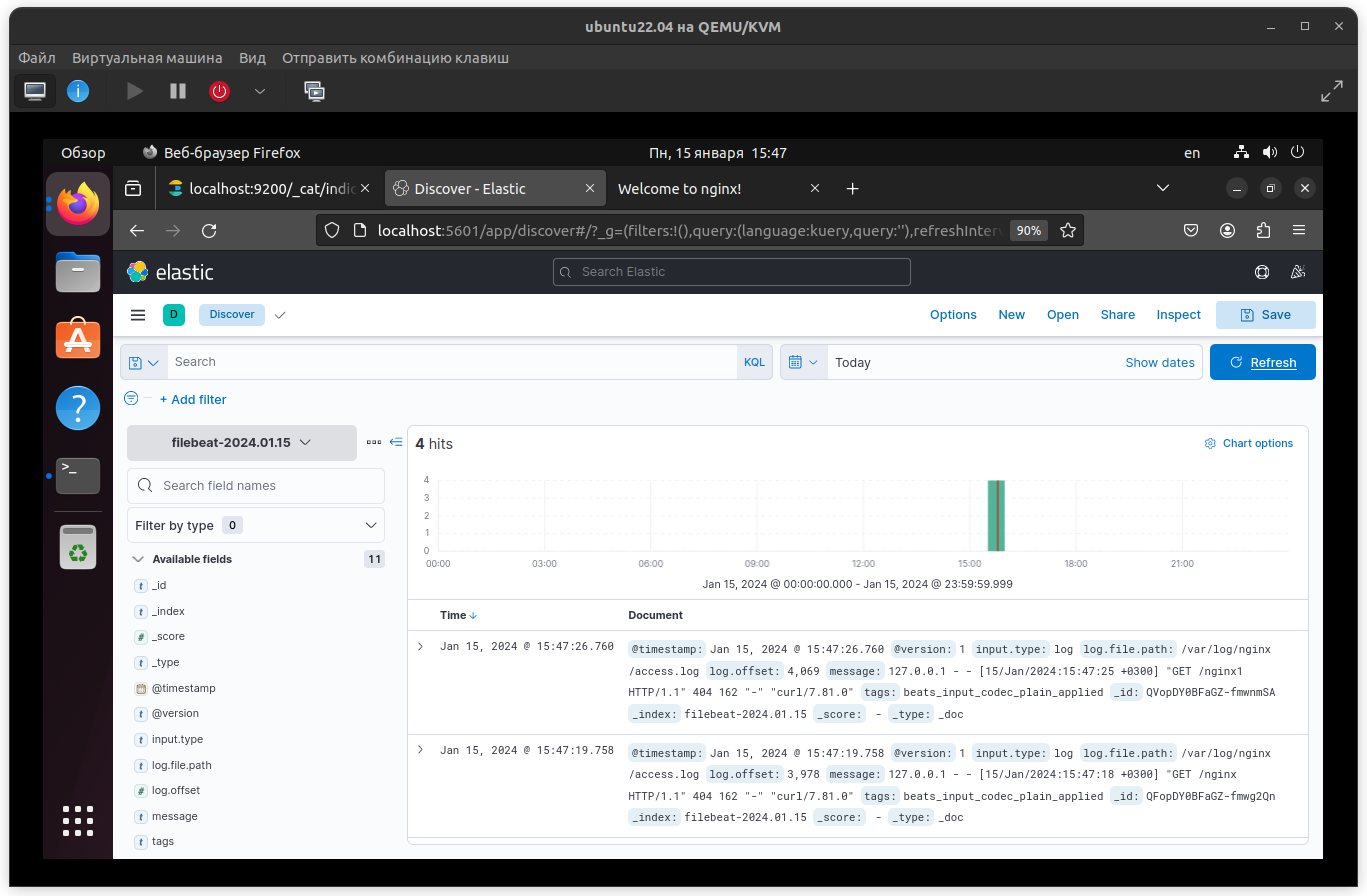
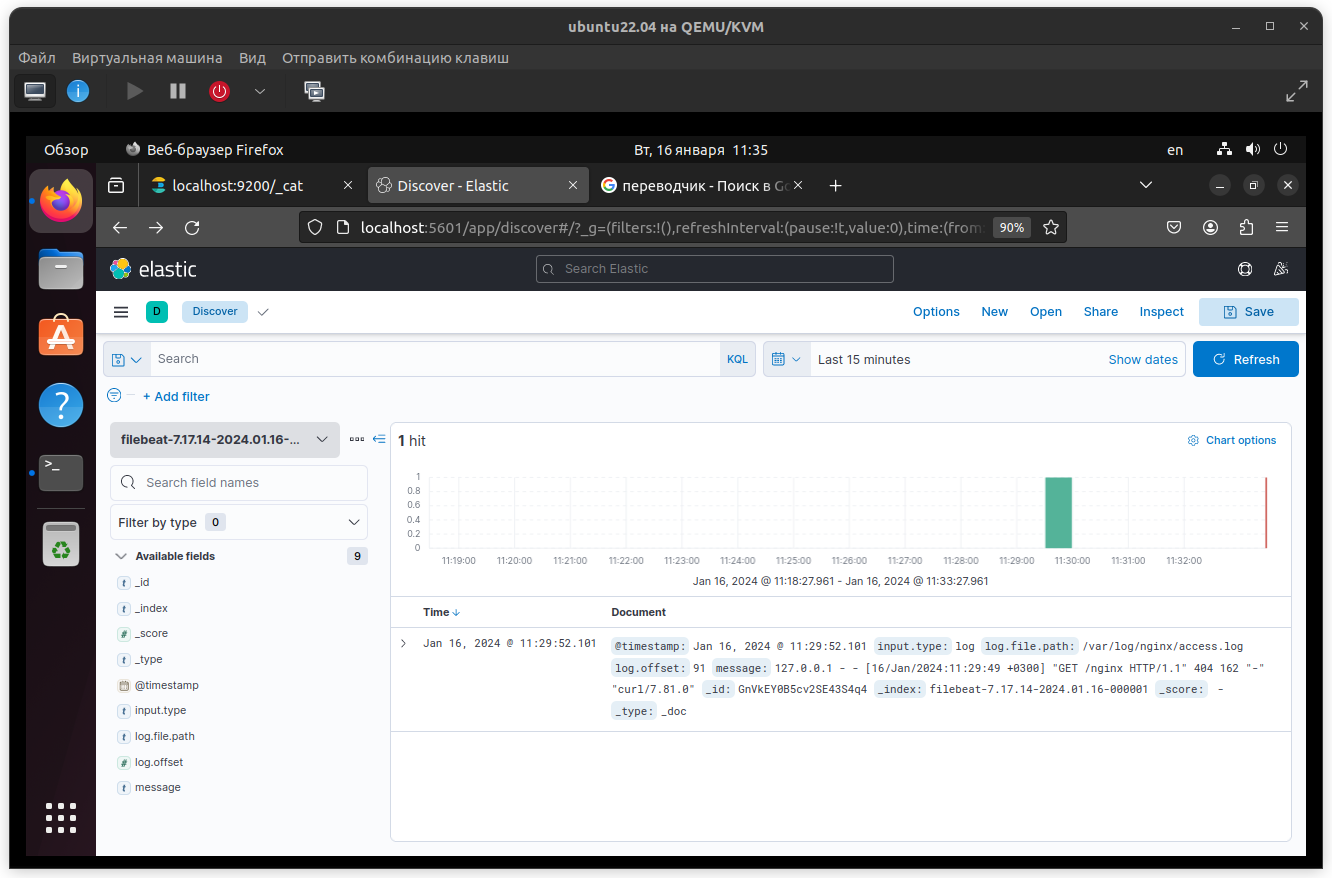
Добавление информации

diff --git a/README.md b/README.md
@@ -92,7 +92,7 @@ GET /_cluster/health?pretty
 Установите и запустите Logstash и Nginx. С помощью Logstash отправьте access-лог Nginx в Elasticsearch. 
 
 *Приведите скриншот интерфейса Kibana, на котором видны логи Nginx.*
-```bash```
+
 
 ---
 ### Ответ 3
@@ -138,7 +138,7 @@ output {
 7. Захожу через браузер в Кибану в раздел `Stack Management`>`Index patterns`> нажимаю в верхнем правом углу синию кнопку `+ Create index pattern`> в правой секции копирую название появившегося индекса `nginx-index`> вставляю в поле `Name`> во вкладке `Timestamp` выбираю `@Timestamp`> и нажимаю внизу кнопку `Create index pattern`. Далее заходим через основное меню в Кибане в пункт `Discover` и в левой части окна, под кнопкой `+ Add filter` выбираем наш индекс `nginx-index`
 
 ![nginx_index](https://github.com/Lexacbr/ELK/blob/main/scrsh/ng-index.png)
-![nginx_index](https://github.com/Lexacbr/ELK/blob/main/scrsh/ng-ind-log.png)
+![nginx_index_log](https://github.com/Lexacbr/ELK/blob/main/scrsh/ng-ind-log.png)
 
 ---
 ### Задание 4. Filebeat. 
@@ -147,10 +147,62 @@ output {
 
 *Приведите скриншот интерфейса Kibana, на котором видны логи Nginx, которые были отправлены через Filebeat.*
 
+```bash
+
+```
+
 ---
 ### Ответ 4
 ---
+1. Устанавливаю Файлбит из репозитория:
+```bash
+sudo apt install filebeat
+```
+2. Обновляю конфиг-файл systemd:
+```bash
+sudo systemctl daemon-reload
+```
+3. Включаю сервис в автозагрузку:
+```bash
+sudo systemctl enable filebeat.service
+```
+4. Редактирую конфиг-файл filebeat опираясь на данную [статью](https://cloud.vk.com/docs/additionals/cases/cases-logs/case-logging#ustanovka_filebeat)
 
+5. Меняю конфиг filebeat в файле:
+```bash
+sudo nano /etc/filebeat/filebeat.yml
+```
+```bash
+filebeat.inputs:
+  - type: log
+    enabled: true
+    paths:
+      - /var/log/nginx/access.log
+```
+6. В пункте `Outputs` в подразделе `Elasticsearch Output` раскомментирую данную строку:
+```bash
+output.elasticsearch:
+  hosts: ["localhost:9200"]
+```
+7. Создаю файл /etc/logstash/conf.d/input-beats.conf, содержащий номер порта, на который Beats (в частности, Filebeat) присылает свои логи:
+```bash
+input {
+  beats {
+    port => 5044
+  }
+}
+```
+8. Создаю файл /etc/logstash/conf.d/output-elasticsearch.conf и укажите, что логи нужно отправлять в Elasticsearch по адресу localhost 
+```bash
+output {
+elasticsearch {
+hosts => [ "localhost:9200" ]
+        manage_template => false
+        index => "filebeat-%{+YYYY.MM.dd}"
+    }
+}
+```
+Данные по настройке брал из этой [статьи](https://cloud.vk.com/docs/additionals/cases/cases-logs/
 
-
+![filebeat_index_log](https://github.com/Lexacbr/ELK/blob/main/scrsh/filebeat-log.png)
 ---
